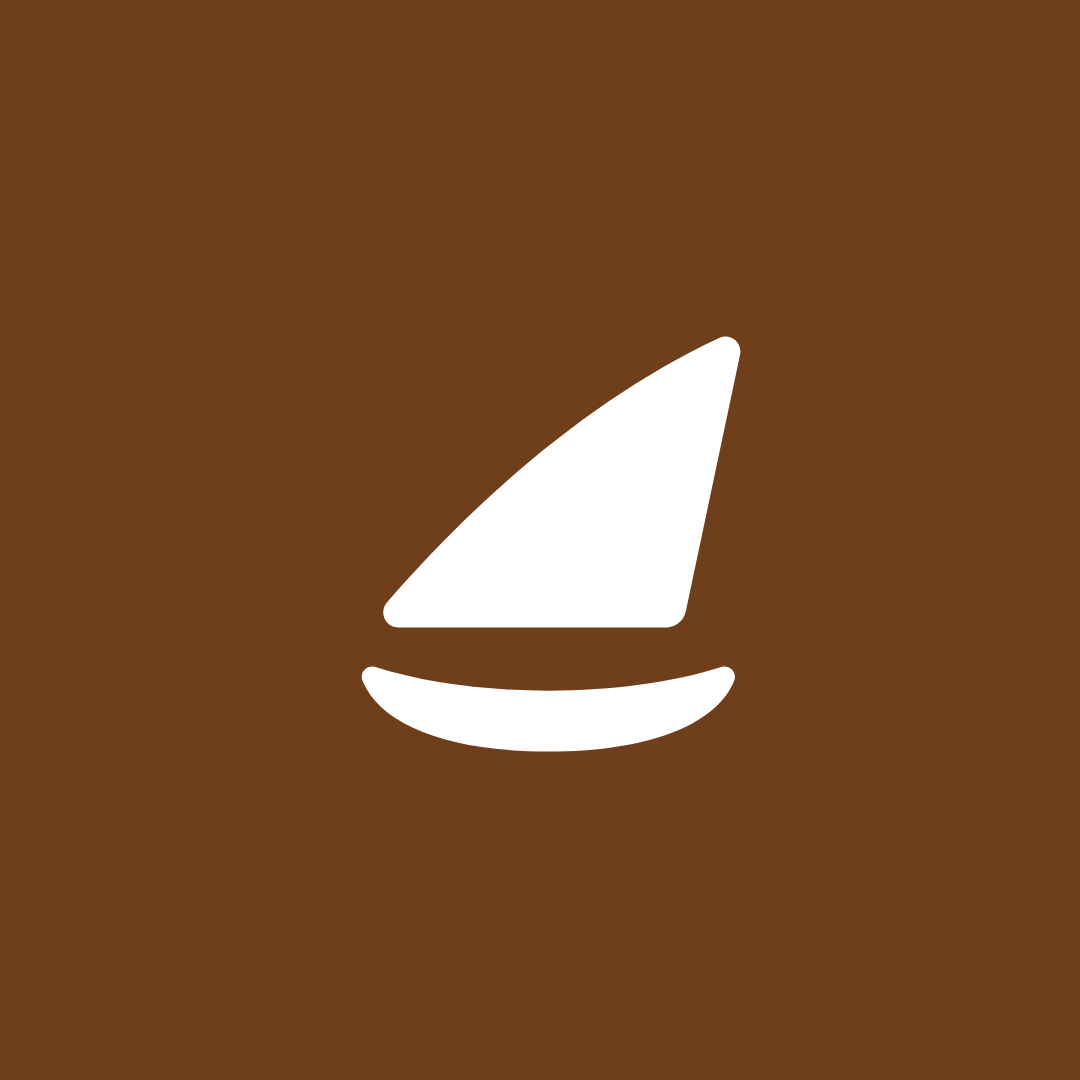
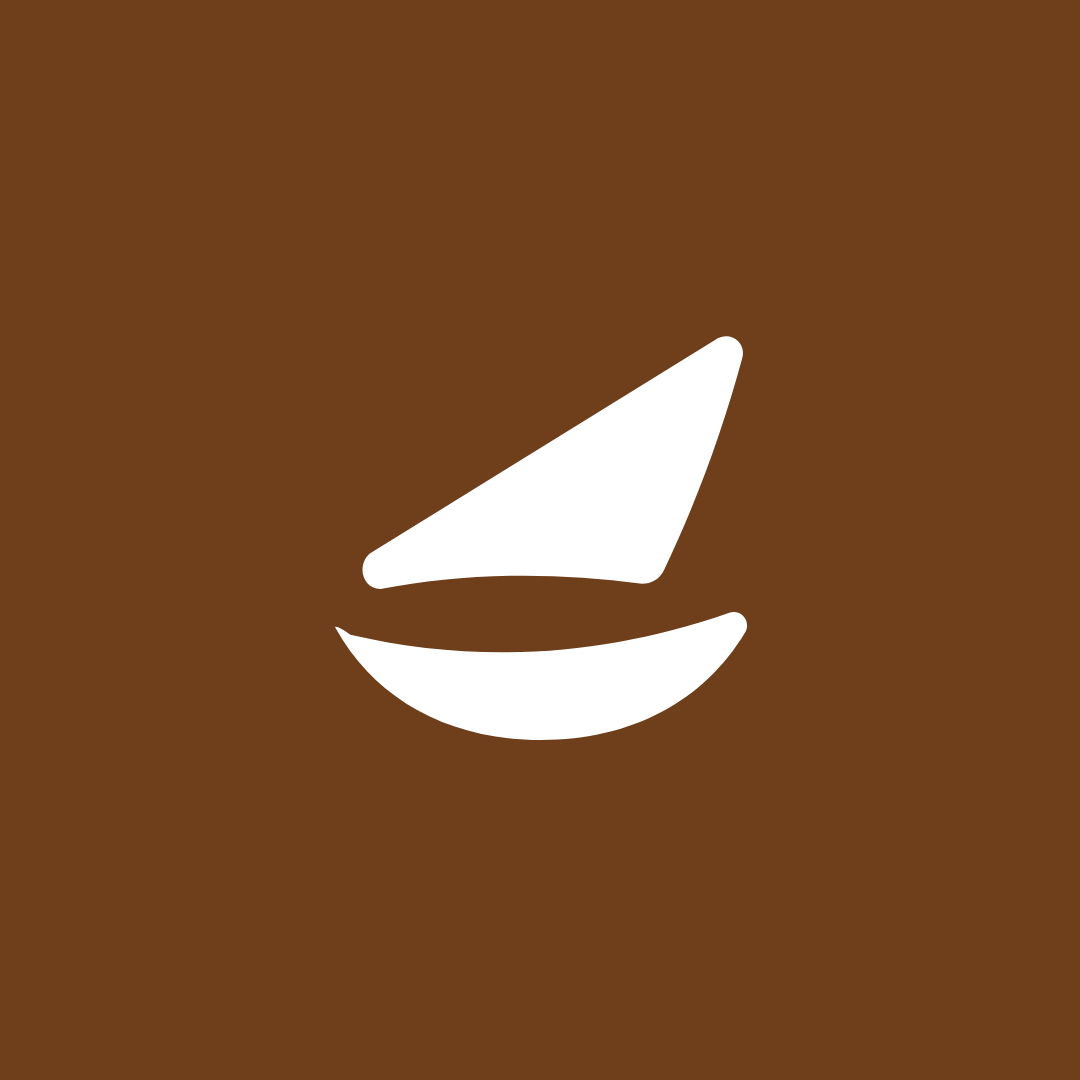
Redraw the Almuhallab sail on a proper grid
Rendered at 280, 96, 48, 24 and 16px, the old mark showed three real
faults: it sat low and left in its box with a dead column of space at the
right, the sail was a straight-edged wedge that read as a fin rather than a
lateen sail, and by 16px the hull thinned to a hairline and the two shapes
merged into one smudge.

Redrawn on the 24 grid with a 2-unit optical margin, same concept and same
brown: the yard runs straight from peak to tack, the leech falls in one long
curve, and the foot now arches up against the hull's belly so the two shapes
leave a crescent of white between them and stay legibly separate at 16px.
The hull's bow lifts to the right — that asymmetry is what tells a boat from
a smile — and its stern closes on itself instead of leaving the small spur
the old outline carried.

One drawing serves logo.svg, favicon.svg and the page sprite; the suite now
pins the path signature in all three so a favicon can never lag a redraw.
Instagram covers regenerated from the new sprite.

Claude-Session: https://claude.ai/code/session_01Ta4JK9JCEpPNvSTme3t8ta

diff --git a/almuhallab/index.html b/almuhallab/index.html
@@ -726,7 +726,7 @@
        #i-sail is the company's own dhow-sail mark (refined at the owner's request
        2026-07: curved sail, crescent hull — same mark, better drawing). -->
   <svg width="0" height="0" style="position:absolute" aria-hidden="true" focusable="false">
-    <symbol id="i-sail" viewBox="0 0 24 24"><path fill="currentColor" stroke="none" d="M20.6 2.3c.55-.25 1.13.23 1 .82l-2.6 12.3c-.1.47-.5.78-.98.78H5.2c-.62 0-.95-.72-.55-1.2C8.9 10.1 14.4 5.2 20.6 2.3Z"/><path fill="currentColor" stroke="none" d="M4.1 18.1c-.4-.12-.78.26-.62.65.88 2.16 4.2 3.4 8.92 3.4s8.04-1.24 8.92-3.4c.16-.39-.22-.77-.62-.65-2.35.74-5.18 1.13-8.3 1.13s-5.95-.39-8.3-1.13Z"/></symbol>
+    <symbol id="i-sail" viewBox="0 0 24 24"><path fill="currentColor" stroke="none" d="M20.4 2.4C21.08 1.9 21.95 2.5 21.7 3.3 20.75 6.8 19.5 10.2 17.95 13.45 17.75 13.87 17.35 14.1 16.9 14.1 12.5 13.5 8.2 13.6 4.35 14.35 3.45 14.35 3.2 13.2 3.83 12.65Z"/><path fill="currentColor" stroke="none" d="M2.9 16.55C8.9 17.95 15.05 17.6 21.05 15.5 21.65 15.28 22.15 15.9 21.85 16.43 19.85 19.75 16.4 21.6 12.05 21.6 7.6 21.6 4.1 19.65 2.2 16.25 2.05 16.05 2.45 16.2 2.9 16.55Z"/></symbol>
     <symbol id="i-whatsapp" viewBox="0 0 24 24"><path d="M8.2 4.5h2.1l1.3 3.2-1.6 1.2a10 10 0 0 0 5.1 5.1l1.2-1.6 3.2 1.3v2.1c0 1.1-.9 2-2 2A14.6 14.6 0 0 1 6.2 6.5c0-1.1.9-2 2-2Z"/></symbol>
     <symbol id="i-instagram" viewBox="0 0 24 24"><rect x="3.4" y="3.4" width="17.2" height="17.2" rx="5"/><circle cx="12" cy="12" r="4.1"/><circle cx="17.1" cy="6.9" r="1.15" fill="currentColor" stroke="none"/></symbol>
     <symbol id="i-code" viewBox="0 0 24 24"><path d="M9 7 4.5 12 9 17M15 7l4.5 5L15 17"/></symbol>
@@ -799,7 +799,7 @@
       <!-- real, verifiable numbers — no invented clients or years -->
       <div class="stats">
         <div class="stat"><b class="num" data-count="4">4</b><span>وحدات في نظام النوخذة</span></div>
-        <div class="stat"><b class="num" data-count="372">372</b><span>فحصاً آلياً قبل كل إصدار</span></div>
+        <div class="stat"><b class="num" data-count="373">373</b><span>فحصاً آلياً قبل كل إصدار</span></div>
         <div class="stat"><b class="num" data-count="0">0</b><span>اعتماديات خارجية</span></div>
         <div class="stat"><b class="num" data-count="100" data-suffix="%">100%</b><span>يعمل دون إنترنت</span></div>
       </div>

diff --git a/almuhallab/sw.js b/almuhallab/sw.js
@@ -1,7 +1,7 @@
 /* النوخذة service worker — precache the app shell, serve cache-first, refresh in background. */
 "use strict";
 
-var CACHE = "nokhatha-v29";
+var CACHE = "nokhatha-v30";
 var ASSETS = [
   "./",
   "index.html",

diff --git a/design/test_suite.py b/design/test_suite.py
@@ -139,8 +139,14 @@ def identity_checks():
     home = (ROOT / "index.html").read_text()
     logo = (ROOT / "logo.svg").read_text()
 
+    # the mark's own path signature. It lives in three files and they have to
+    # stay one drawing — a favicon that lags a redraw is a second logo
+    SAIL = "M20.4 2.4C21.08 1.9 21.95 2.5 21.7 3.3"
+    HULL = "M2.9 16.55C8.9 17.95 15.05 17.6 21.05 15.5"
     check(S, "the mark is the dhow sail, in logo.svg and in the page sprite",
-          'id="i-sail"' in home and "M20.6 2.3" in home and "M20.6 2.3" in logo)
+          'id="i-sail"' in home and SAIL in home and SAIL in logo)
+    check(S, "the sail sits over its hull in both",
+          HULL in home and HULL in logo)
     check(S, "the header carries the mark, not an emoji or a letter",
           '<use href="#i-sail"/>' in home)
     check(S, "the wordmark is المهلب", '<span class="name">المهلب</span>' in home)
@@ -384,7 +390,7 @@ def home_checks(pg):
     check(S, "no-JS: the edge fades are not painted",
           np_.evaluate("getComputedStyle(document.querySelector('#services .railwrap'),'::before').content") == "none")
     check(S, "no-JS: the counters already show the true numbers",
-          np_.eval_on_selector_all(".stat .num", "n=>n.map(e=>e.textContent)") == ["4", "372", "0", "100%"])
+          np_.eval_on_selector_all(".stat .num", "n=>n.map(e=>e.textContent)") == ["4", "373", "0", "100%"])
     check(S, "no-JS: the form is not offered dead — the channels are",
           np_.evaluate("getComputedStyle(document.querySelector('.qwrap')).display") == "none"
           and np_.is_visible(".channels"))
@@ -418,7 +424,7 @@ def home_checks(pg):
     pg.wait_for_timeout(1800)
     finals = pg.eval_on_selector_all(".stat .num", "n=>n.map(e=>e.textContent)")
     check(S, "the counters settle on the true numbers",
-          finals == ["4", "372", "0", "100%"], str(finals))
+          finals == ["4", "373", "0", "100%"], str(finals))
     # the project form validates honestly and never navigates on bad input
     pg.fill("#q-email", "not-an-email"); pg.dispatch_event("#q-email", "blur")
     check(S, "a bad email is marked invalid",
@@ -581,7 +587,7 @@ def home_checks(pg):
         check(S, f"the footer states {want}", want in ftext)
     check(S, "the footer maps the company, the services and the system",
           pg.eval_on_selector_all(".fcols nav a", "n=>n.length") >= 16)
-    # one numeral system per page: Arabic-Indic digits beside "+965" and "372"
+    # one numeral system per page: Arabic-Indic digits beside "+965" and "373"
     # is the same defect that once printed ١٢٬٠٠٠ next to 850 in one table
     mixed = pg.evaluate(r"(document.body.innerText.match(/[٠-٩]/g) || []).length")
     check(S, "the page uses one numeral system throughout", mixed == 0, f"{mixed} Arabic-Indic")
@@ -810,8 +816,10 @@ def scan_checks(pg, br):
     home = (ROOT / "index.html").read_text()
     check(S, "the company favicon is the sail, not the anchor",
           'href="favicon.svg"' in home and 'href="icon.svg"' not in home)
+    fav = (ROOT / "favicon.svg").read_text()
     check(S, "the favicon file draws the sail",
-          "M20.6 2.3" in (ROOT / "favicon.svg").read_text())
+          "M20.4 2.4C21.08 1.9 21.95 2.5 21.7 3.3" in fav
+          and "M2.9 16.55C8.9 17.95 15.05 17.6 21.05 15.5" in fav)
 
     # document structure: exactly one h1 per page
     for f in list(PAGES) + list(STUBS) + ["404.html"]:

diff --git a/CLAUDE.md b/CLAUDE.md
@@ -34,7 +34,7 @@ Locked, exactly as they are:
 
 | | Locked value |
 |---|---|
-| Mark | the dhow's lateen sail over the water — `logo.svg` and `#i-sail` |
+| Mark | the dhow's lateen sail over the water — `logo.svg`, `favicon.svg` and `#i-sail`, one drawing in all three. Redrawn 2026-08-08 at the owner's ask: 24 grid, 2-unit optical margin, straight yard, long curved leech, foot arched up against the hull's belly, bow lifted right. The suite pins its path signature in all three files |
 | Wordmark | **المهلب** in brand brown, `Almuhallab Code` on the line beneath |
 | Brand ink | `--tint` `#7a4418` · `--tint-strong` `#6f3f1c` |
 | Surfaces | **white on every device** — no dark theme; white page, white cards, cool near-neutral greys. Brown is ink, never paper — with one exception the owner asked for (2026-07-31): the **masthead bar is brown** (`--tint-strong`) with white ink on every page, and `theme-color` matches it. Everything below the bar stays white |
@@ -238,7 +238,7 @@ Static HTML5 PWA, Arabic-first (RTL), no build step and no dependencies.
 - Verify in a real browser (Playwright + the preinstalled Chromium at
   `/opt/pw-browsers/chromium-1194/chrome-linux/chrome` — pass it as
   `executable_path`, the pip package expects a newer build).
-- `python3 design/test_suite.py` is the full system test — 372 checks covering
+- `python3 design/test_suite.py` is the full system test — 373 checks covering
   token consistency and contrast, SAFI/XBRL/delivery arithmetic, generated
   artefacts, auth, hostile input, storage tampering, offline, layout, and the mobile shell
   (bottom tab bar, 16px inputs, 44px touch targets, [hidden] integrity). Run it

diff --git a/almuhallab/README.md b/almuhallab/README.md
@@ -144,7 +144,7 @@ visitor's OS happens to have installed.
 ## Tests
 
 ```bash
-python3 design/test_suite.py     # 372 checks, exits non-zero on failure
+python3 design/test_suite.py     # 373 checks, exits non-zero on failure
 ```
 
 Covers the **pinned Almuhallab identity** (the sail mark, the المهلب wordmark,
